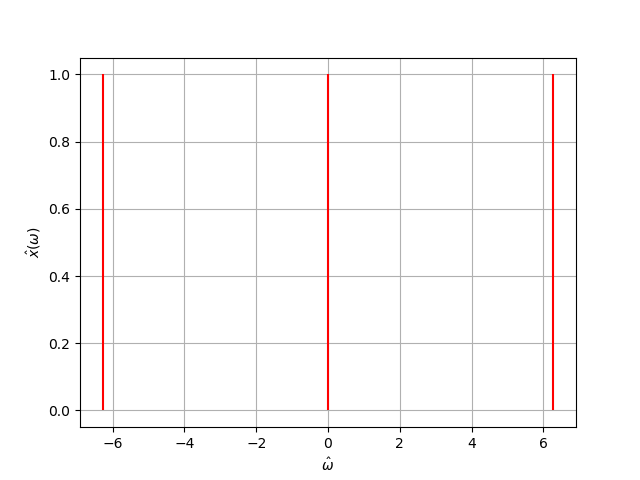
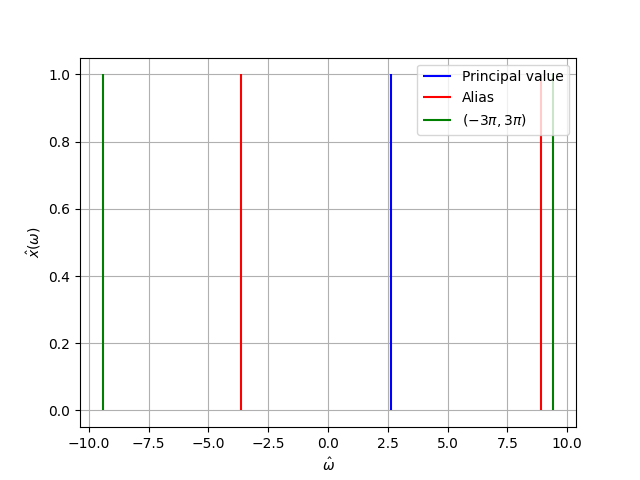
created solution

diff --git a/ch09/solutions9.tex b/ch09/solutions9.tex
@@ -10,26 +10,38 @@ $$\hat{\omega}_{k}=\hat{\omega}_{0}+2\pi k=\omega_{0}\frac{1}{f_{s}}+2\pi k=\fra
 for $k\in\mathbb{Z}$. 
 
 \item The principal aliases lie in $-\pi<\hat{\omega}_{k}<\pi$. Pick a $k\in\mathbb{Z}$ such that $-\pi<\hat{\omega}_{k}<\pi$. 
-For instance, $k=100$ works:
+For instance, $k=-100$ works:
 $$-\pi < \frac{5021}{25}\pi-2\pi 100 < \pi,$$
 giving a value of $\hat{\omega}\approx2.6389\ \text{rad/sample}$. 
 
-\item To draw the spectrum for $x(t)$ we can use the code in Listing \ref{plotcode1}.
+\item To draw the spectrum for $x(t)$ we can use the code in Listing \ref{plotcode1}. The boundaries for $-3\pi$ and $3\pi$ are shown
+as vertical lines in green. The principal alias is shown in blue while the other aliases are shown in red. There are a total of 
+three spectral components on this the interval $(-3\pi,3\pi)$. 
 
 \begin{lstlisting}[language=Python, caption=Spectrum of $x(t)$,label=plotcode1]
 import numpy as n
 import matplotlib.pyplot as plt
 
 fs = 100 # sample rate in Hz
-om0 = 2*n.pi*fs
+om0 = 2*n.pi*10042
 
+# function to compute the different aliases
+def omk(k):
+	return om0/fs + 2*n.pi*k
+
+# plot on the interval (-3*n.pi,3*n.pi)
 om = n.linspace(-3*n.pi,3*n.pi,num=1000)
-plt.vlines(om0+2*n.pi*(-99),ymin=0,ymax=1,color="red")
-plt.vlines(om0+2*n.pi*(-100),ymin=0,ymax=1,color="red")
-plt.vlines(om0+2*n.pi*(-101),ymin=0,ymax=1,color="red")
+
+# plot the components
+plt.vlines(omk(-100),ymin=0,ymax=1,color="blue",label="Principal value")
+plt.vlines(omk(-99),ymin=0,ymax=1,color="red",label="Alias")
+plt.vlines(omk(-101),ymin=0,ymax=1,color="red")
+plt.vlines(-3*n.pi,ymin=0,ymax=1,color="green",label="$(-3\pi,3\pi)$")
+plt.vlines(3*n.pi,ymin=0,ymax=1,color="green")
 plt.xlabel("$\hat{\omega}$")
 plt.ylabel("$\hat{x}(\omega)$")
 plt.grid(True)
+plt.legend()
 plt.show()
 \end{lstlisting}
 The spectrum $\hat{x}(\omega)$ is shown in Figure \ref{spectrum_plot}. 
@@ -42,10 +54,10 @@ The spectrum $\hat{x}(\omega)$ is shown in Figure \ref{spectrum_plot}.
 
 \item The possible angular frequencies that result in the same discritization is found by:
 $$\omega_{k}=\omega_{0}+2\pi kf_{s}.$$
-Choosing different values for $k$ and search for a value that satisfy the requirement of being the smallest $|\omega_{k}|$ is found to be $k=-100$. 
+Choosing different values for $k$ and search for a value that satisfy the requirement of being the smallest, $|\omega_{k}|$ is found to be $k=-100$. 
 This value gives $\omega_{k}=2\pi42$. 
 
-\item Here the signal is complex, so the signal can be sampled at $f_{s}>f_{\text{max}}-f_{\text{min}}=\frac{\omega_{0}}{2\pi}$ 
+\item Here the signal is complex, so the signal can be sampled at $f_{s}> f_{\text{max}} - f_{\text{min}}=\frac{\omega_{0}}{2\pi}$ 
 by the Shannon sampling theorem, which correspond to $f_{s}>10042$ Hz. 
 \end{enumerate}
 
